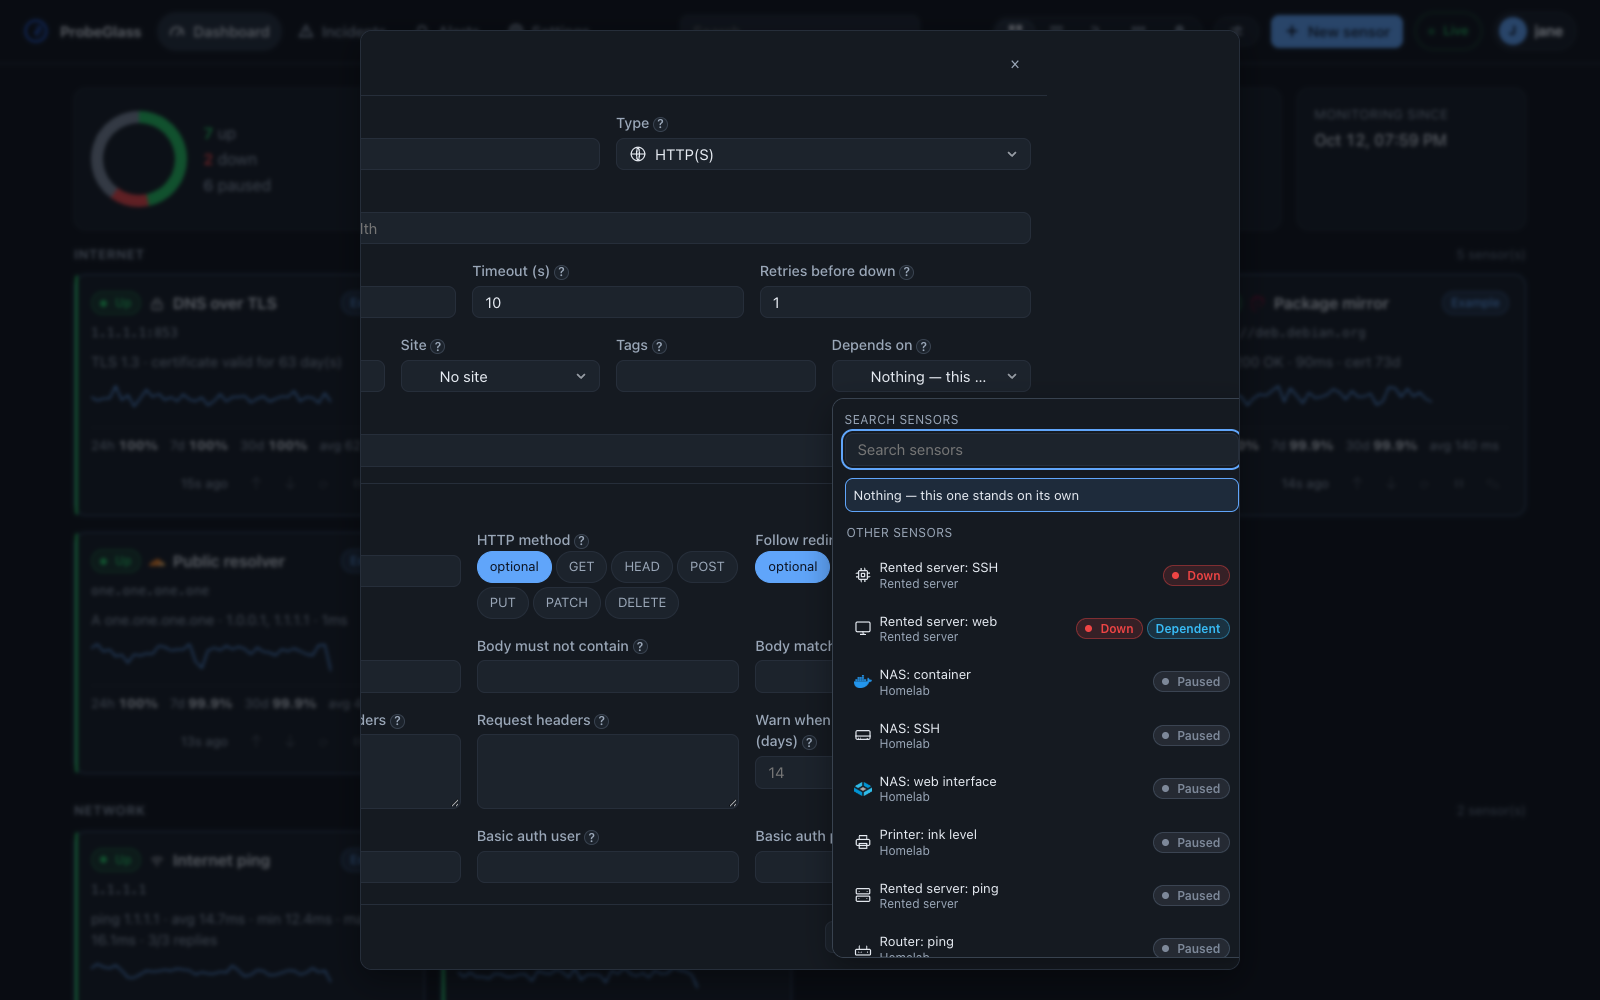
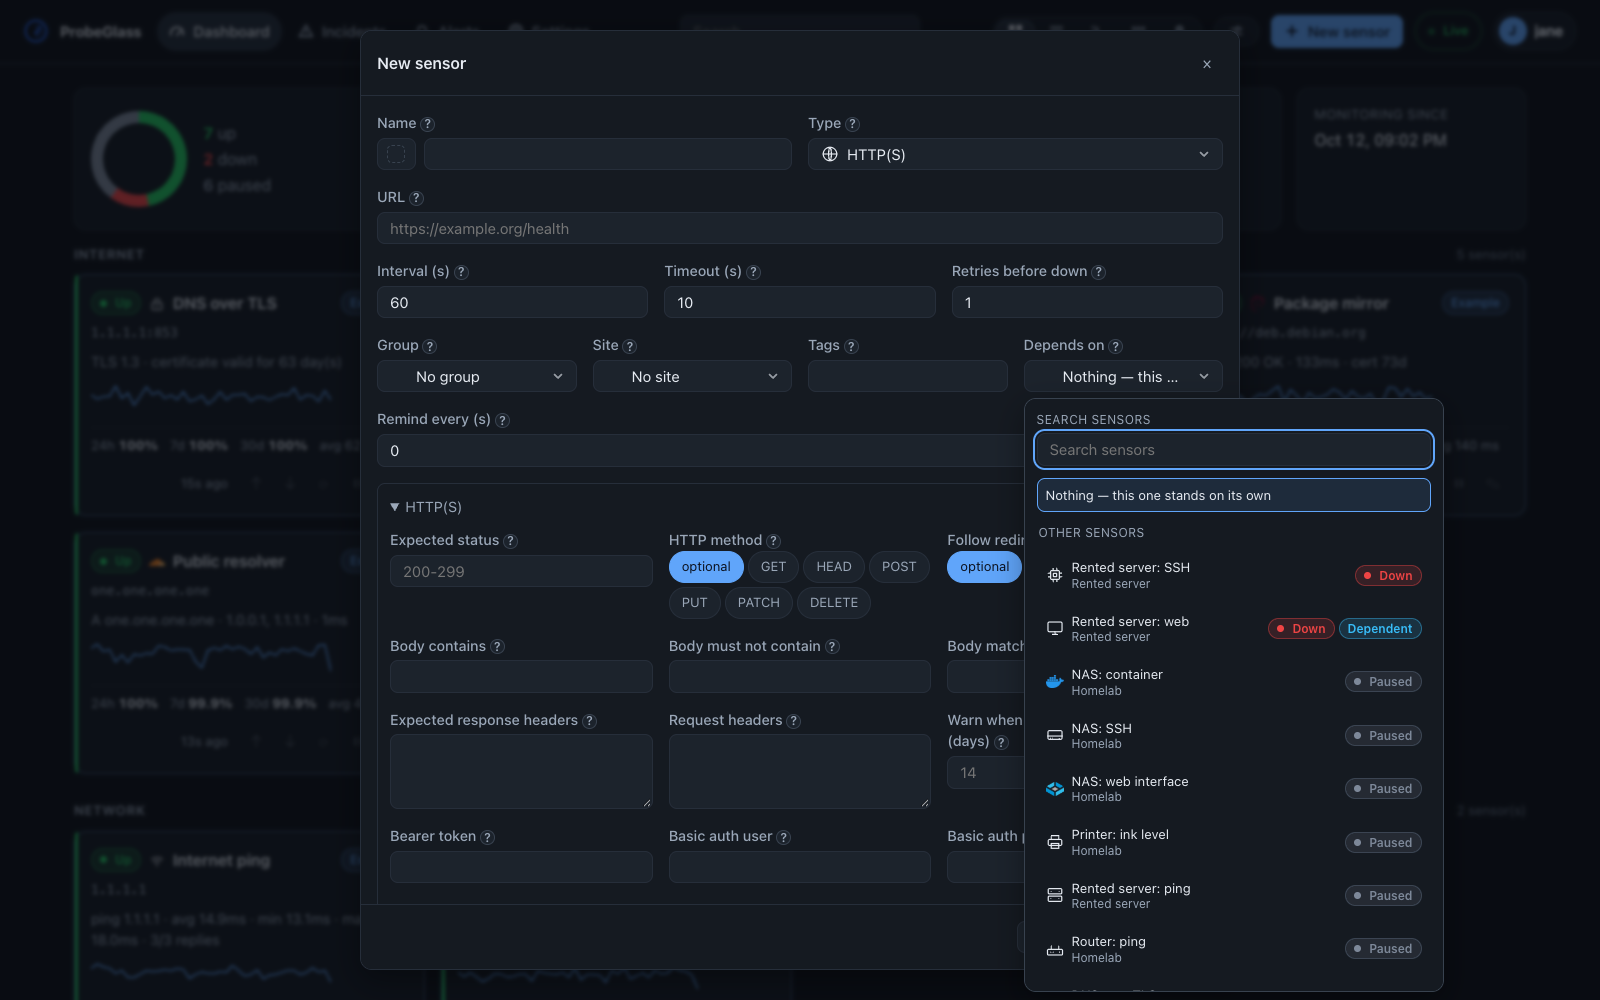
The sensor page names the group chooser
The group field is the same picker as the place and dependency fields, and its
search box is where a new group is named. The three screenshots are regenerated
with the panels clamped to the window.

diff --git a/docs/getting-started/first-sensor.md b/docs/getting-started/first-sensor.md
@@ -16,7 +16,7 @@ Click **New sensor** in the top bar and fill in four fields:
 
 <img
   src="/img/sensor-form.png"
-  alt="The sensor form: name, a Type button showing HTTP(S), URL, interval, timeout and retries, a place picker, a Depends on picker, then a fold-out section of type options shown as clickable chips rather than dropdowns. A small question mark sits beside every label, and the one beside Expected status is open, showing a sentence about which status codes count as healthy and the example 200-299."
+  alt="The sensor form: name, a Type button showing HTTP(S), URL, interval, timeout and retries, a group picker, a place picker, a Depends on picker, then a fold-out section of type options shown as clickable chips rather than dropdowns. A small question mark sits beside every label, and the one beside Expected status is open, showing a sentence about which status codes count as healthy and the example 200-299."
   width="1600"
 />
 
@@ -33,6 +33,10 @@ method is one click and visible rather than a folded list of words.
   alt="The sensor type chooser open under the Type field: a search box and four groups — Web, Network, Services and Infrastructure — each holding tiles with a symbol, a name and the shape of its target, such as HTTP(S) with URL or SSH banner with Host or host:port."
   width="1600"
 />
+
+The **group** field is the same chooser. Its search box is also where a new
+group is named: type a word no existing group uses, and the panel offers to make
+it, so a group is still just a word typed on a sensor.
 
 Choose a place the same way — sites are grouped by kind, and the list still
 carries the entry that makes a new one without leaving the form. **Depends on**

diff --git a/docs/concepts/sensors.md b/docs/concepts/sensors.md
@@ -30,8 +30,9 @@ In the dashboard the types are grouped as **Web**, **Network**, **Services** and
 **Infrastructure**, in a chooser with a search field rather than a long
 dropdown. The options each type adds are chips, so the choice that is switched
 off — "leave it at the default" — is visible beside the ones that are not. The
-place and **Depends on** fields use the same kind of picker: sites grouped by
-kind, and the other sensors listed with the status each one has right now.
+group, place and **Depends on** fields use the same kind of picker: the group
+search names a new group when the word is not there yet, sites are grouped by
+kind, and the other sensors are listed with the status each one has right now.
 
 ## ⚙ Common settings {#common-settings}
 
